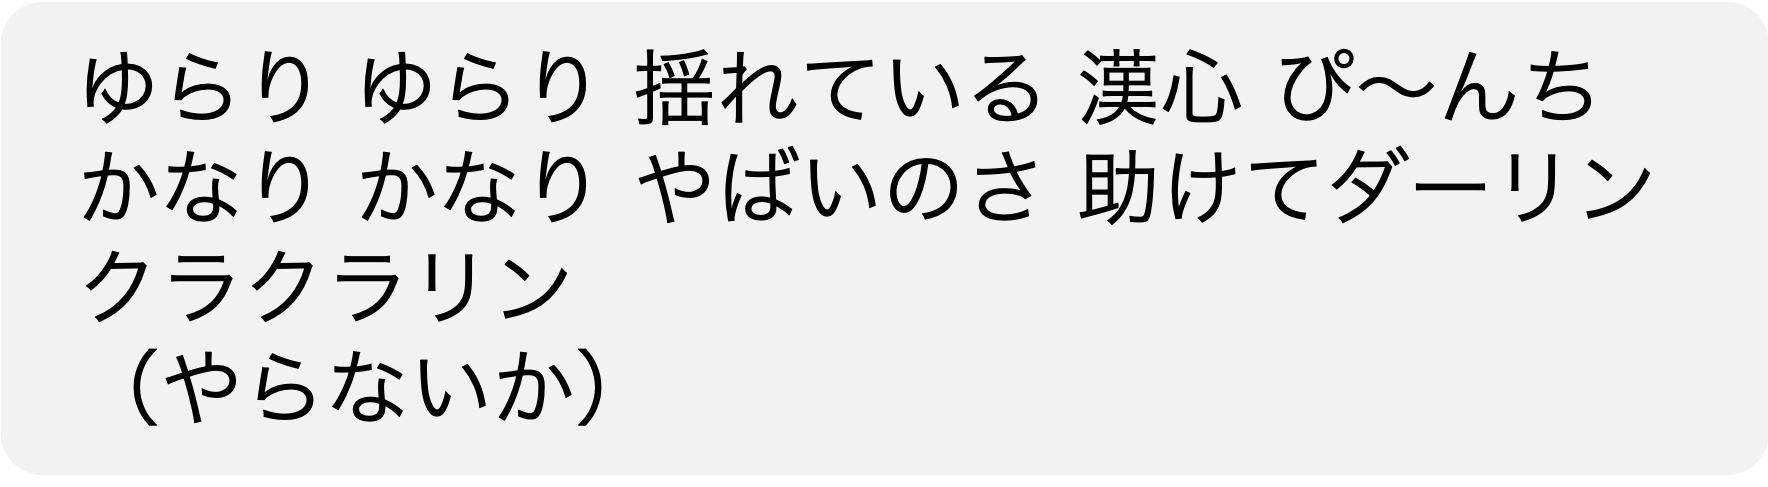
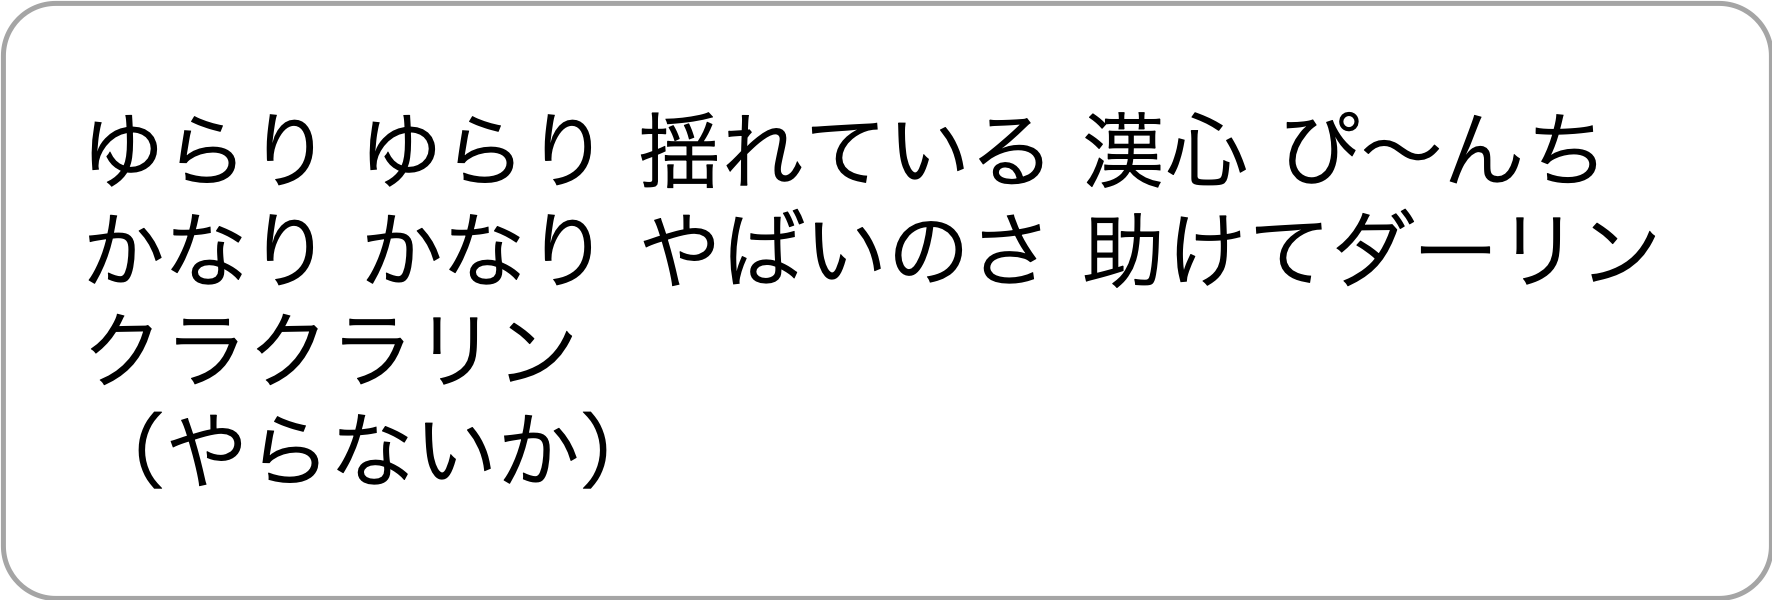
Revert revision

diff --git a/public/index.html b/public/index.html
@@ -13,12 +13,12 @@
           <!-- モデルをプリロード -->
           <a-asset-item id="hondo1" src="model/hondodance/hondodance.gltf"></a-asset-item>
           <a-asset-item id="mizu1" src="model/mizuki-sandance/mizuki-sandance.gltf"></a-asset-item>
-          <img id="message" src="message/message_test3.png">
+          <img id="message" src="message/message_test2.png">
           
       </a-assets>
       <a-marker type='pattern' url='./marker/pattern-qr.patt' smoothTolerance='0.01'	smooth='false' smoothCount='20'><!--  smoothCount='5'-->
           <a-text value="Welcome Dance!!" position="0 1.0 0.5" rotation="1 0 0" width="5" height="3" material="color:#808080" align="center"></a-text>
-          <a-image src="#message" width="1.0" height="0.5" rotation="0 0 0" position="0 2 0"></a-image>
+          <a-image src="#message"  rotation="0 0 0" position="0 3 0"></a-image>
           <a-entity gltf-model="#hondo1" scale="10 10 10" position="-0.5 0 0" animation-mixer></a-entity>
           <a-entity gltf-model="#mizu1" scale="6.5 6.5 6.5" position="0.5 0 0" animation-mixer></a-entity>
       </a-marker> 
